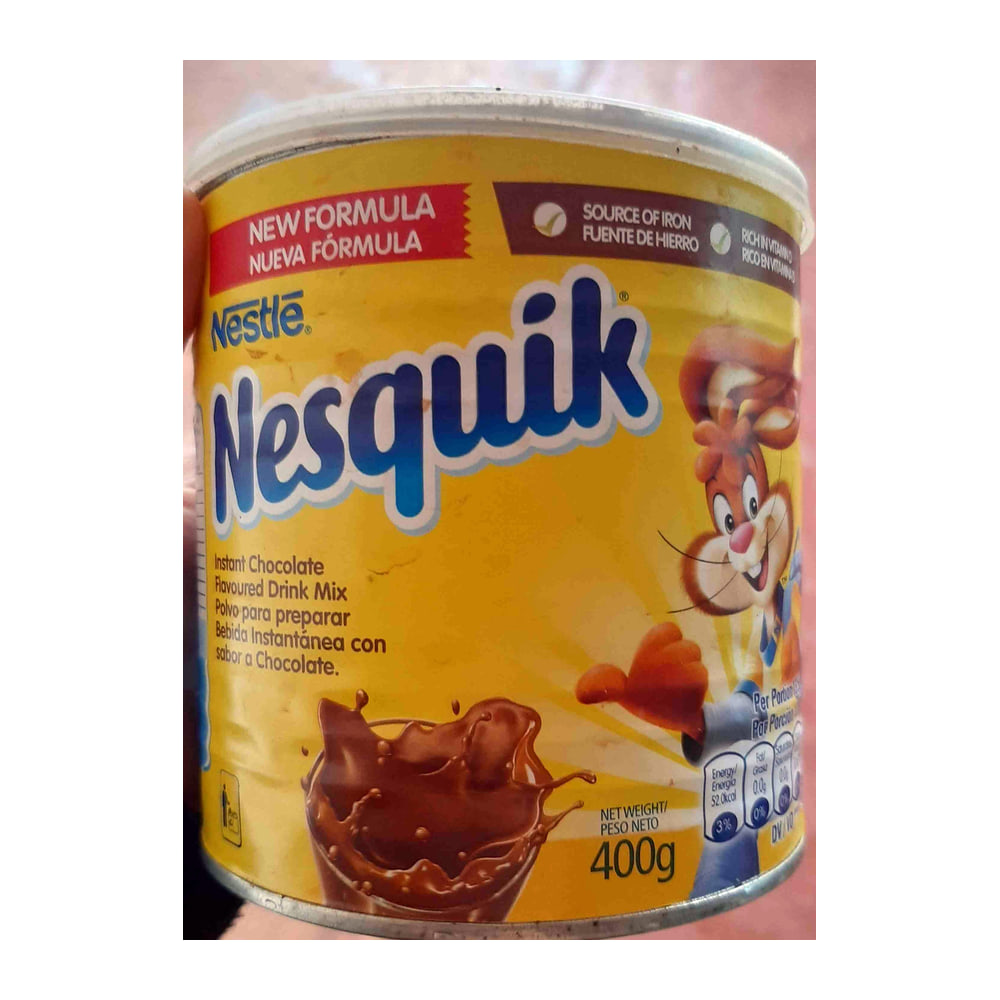
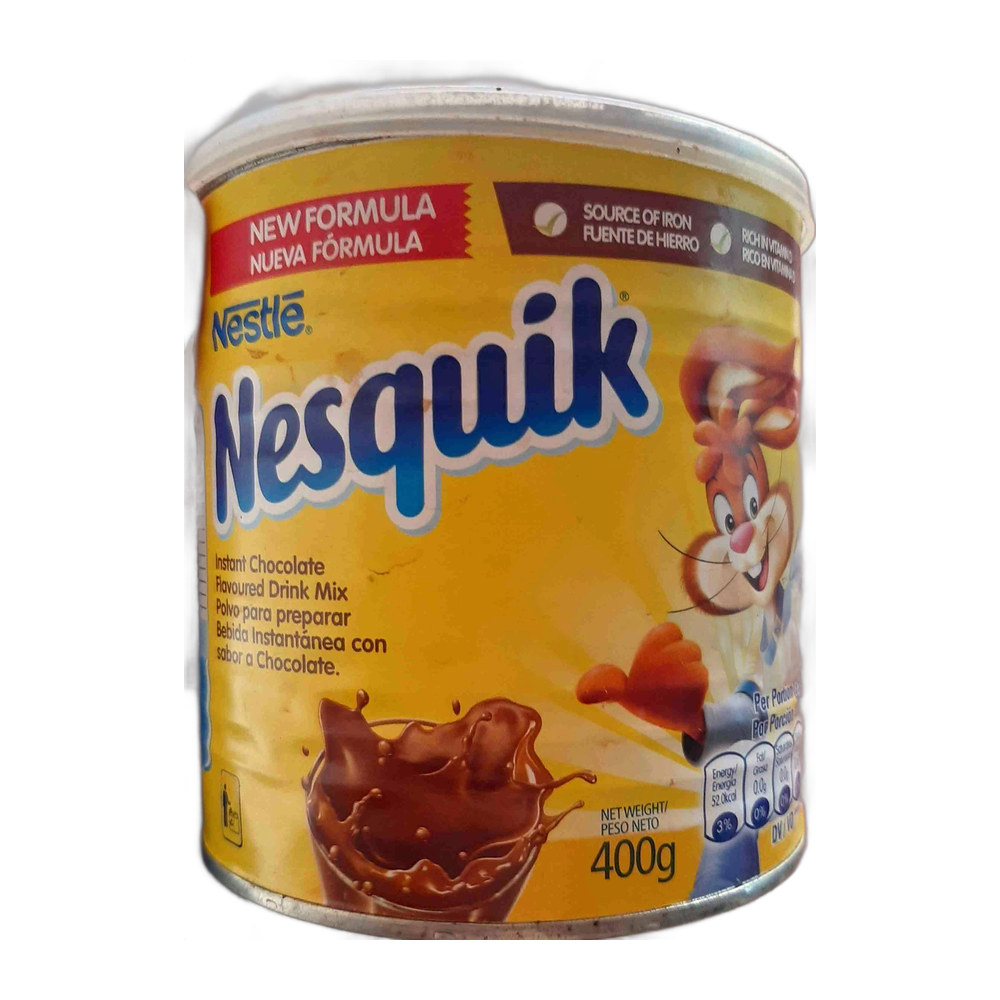
foto: recorte de fundo em 7 — e o registro de por que não nas outras 70
As sete que a régua de canto reprovava E que o recorte melhorou de
fato: Nesquik (lata sobre bancada amarelada), água Crystal 5 L
(garrafa na mesa da cozinha), Leão Fuze (caixa sobre mesa azul), Santa
Clara (pacote sobre superfície escura), Colgate (tira espremida de
1080×353), Nivea UV Face Shine Control (caixa em parede bege) e Dove
sabonete líquido. Conferidas uma a uma, lado a lado com a original.

Legalidade, que é o ponto que decide o método: as fotos vêm da Open
Food Facts / Open Beauty Facts sob CC-BY-SA, que permite uso comercial
E obra derivada mediante atribuição — e /attributions já atribui.
Recortar o fundo é derivada do que já temos licença de usar. É o
oposto de pegar pack shot do site do fabricante: aquilo é obra
protegida de quem a gente precisa como FORNECEDOR, e uma notificação
custa mais que qualquer foto.

O que NÃO foi feito, e por quê — isto é o achado que vale mais que as
sete fotos:

  1. u2net (o modelo padrão do rembg) destrói embalagem. Numa passada
     nas 77 ele apagou o Dr. Oetker inteiro, deixou só a tampa da
     garrafa de água e transformou o Bis em farelo. Ele segmenta
     "objeto saliente" em foto genérica; embalagem clara e superfície
     reflexiva o enganam.
  2. isnet-general-use acerta os casos difíceis (a lata amarela sobre
     amarelo, a garrafa TRANSPARENTE de 5 L) mas ainda destrói cerca de
     metade: Doritos vira fantasma, Suflair some, Nissin desfia. Uma
     passada em massa foi aplicada, medida na folha de contato e
[…]

diff --git a/scripts/recortar-fundo.py b/scripts/recortar-fundo.py
@@ -1,0 +1,192 @@
+#!/usr/bin/env python3
+"""
+Recorta o fundo das fotos do catálogo e devolve pack shot sobre branco.
+
+Por que isto existe: 42 dos 77 produtos com código de barras NÃO têm
+foto de estúdio em acervo aberto nenhum — medido duas vezes, por dois
+métodos. As fotos que existem são de voluntário: lata sobre bancada
+amarelada, caixa em cima de mesa azul, garrafa na mesa da cozinha. Numa
+grade de 24 cards isso lê como loja improvisada, e a foto é tudo o que
+a tripulação tem para decidir, porque ela não pode pegar o produto.
+
+Por que é legal fazer isso: as fotos vêm da Open Food Facts / Open
+Beauty Facts sob CC-BY-SA, que permite uso comercial E obra derivada,
+exigindo atribuição — que a página /attributions já dá. Recortar o
+fundo é obra derivada da foto que já temos licença de usar. É o oposto
+de pegar pack shot do site do fabricante, que é obra protegida de quem
+a gente precisa como fornecedor.
+
+A fonte é a imagem marcada como FRENTE (image_front_url), nunca "a
+maior original". A OFF guarda frente, verso, ingredientes e tabela
+nutricional no mesmo código de barras; escolher pela área trocou a
+água Crystal e o chá Leão pelo painel nutricional do verso. A frente é
+a única que o colaborador etiquetou como sendo o produto de frente.
+
+    pip install rembg onnxruntime pillow
+    python3 scripts/recortar-fundo.py             # relatório
+    python3 scripts/recortar-fundo.py --gravar    # aplica
+"""
+
+import io
+import json
+import os
+import sys
+import time
+import urllib.request
+
+from PIL import Image
+from rembg import new_session, remove
+
+DESTINO = "public/produtos"
+CACHE = "/tmp/frentes"
+UA = "AtGangway/1.0 (help@atgangway.com; catalog product images)"
+GRAVAR = "--gravar" in sys.argv
+
+# O mesmo molde de lib/fotonormaliza.ts: 1000px de lado e 6% de folga.
+# Dois moldes diferentes para a mesma grade seria pior que fundo sujo.
+LADO = 1000
+FOLGA = 0.06
+
+
+def pega(url, chave, binario=True):
+    arq = os.path.join(CACHE, chave)
+    if os.path.exists(arq):
+        with open(arq, "rb") as f:
+            return f.read()
+    req = urllib.request.Request(url, headers={"User-Agent": UA})
+    for tentativa in range(3):
+        try:
+            with urllib.request.urlopen(req, timeout=40) as r:
+                b = r.read()
+            with open(arq, "wb") as f:
+                f.write(b)
+            time.sleep(0.25)
+            return b
+        except Exception as e:
+            if tentativa == 2:
+                return None
+            time.sleep(2 * (tentativa + 1))
+    return None
+
+
+def frente(ean):
+    """URL da foto de FRENTE, em resolução cheia."""
+    for host in ("world.openfoodfacts.org", "world.openbeautyfacts.org"):
+        b = pega(
+            f"https://{host}/api/v2/product/{ean}.json?fields=code,image_front_url",
+            f"{ean}.json",
+        )
+        if not b:
+            continue
+        try:
+            d = json.loads(b)
+        except Exception:
+            continue
+        if d.get("status") != 1:
+            continue
+        u = (d.get("product") or {}).get("image_front_url")
+        if u:
+            # .400.jpg é a versão de exibição; .full.jpg é a original.
+            return u.replace(".400.jpg", ".full.jpg")
+    return None
+
+
+def cantos_limpos(im):
+    """Os 4 cantos claros e parecidos = já é pack shot, não mexe."""
+    im = im.convert("RGB")
+    w, h = im.size
+    lado = max(12, int(min(w, h) * 0.1))
+    medias = []
+    for cx, cy in ((0, 0), (w - lado, 0), (0, h - lado), (w - lado, h - lado)):
+        recorte = im.crop((cx, cy, cx + lado, cy + lado))
+        px = list(recorte.getdata())
+        medias.append(sum(sum(p) / 3 for p in px) / len(px))
+    return min(medias) >= 240 and (max(medias) - min(medias)) < 12
+
+
+def molde(rgba):
+    """Produto recortado -> quadrado branco de 1000px com folga de 6%."""
+    caixa = rgba.getbbox()
+    if caixa:
+        rgba = rgba.crop(caixa)
+    miolo = int(LADO * (1 - FOLGA * 2))
+    escala = min(miolo / rgba.width, miolo / rgba.height)
+    novo = rgba.resize((max(1, int(rgba.width * escala)), max(1, int(rgba.height * escala))), Image.LANCZOS)
+    fundo = Image.new("RGB", (LADO, LADO), (255, 255, 255))
+    fundo.paste(novo, ((LADO - novo.width) // 2, (LADO - novo.height) // 2), novo)
+    return fundo
+
+
+os.makedirs(CACHE, exist_ok=True)
+
+# u2net (o padrão do rembg) NÃO serve para embalagem, e o estrago foi
+# medido: numa passada nas 77 fotos ele apagou o Dr. Oetker inteiro,
+# deixou só a tampa da garrafa de água, e transformou o Bis em farelo.
+# Ele é treinado para "objeto saliente" em foto genérica, e embalagem
+# clara e superfície reflexiva o confundem.
+#
+# isnet-general-use acerta os dois casos que quebravam o outro — a lata
+# amarela sobre bancada amarelada e a garrafa TRANSPARENTE de 5 L, que
+# é o caso mais difícil que existe (o fundo aparece através do produto).
+sessao = new_session("isnet-general-use")
+
+eans = sorted(
+    f[4:-4] for f in os.listdir(DESTINO) if f.startswith("EAN-") and f.endswith(".jpg")
+)
+
+recortadas, ja_boas, sem_frente, falhas = [], [], [], []
+
+for ean in eans:
+    atual_path = os.path.join(DESTINO, f"EAN-{ean}.jpg")
+    try:
+        atual = Image.open(atual_path)
+    except Exception:
+        continue
+
+    u = frente(ean)
+    if not u:
+        sem_frente.append(ean)
+        continue
+    bruto = pega(u, f"{ean}-front.bin")
+    if not bruto:
+        sem_frente.append(ean)
+        continue
+
+    try:
+        src = Image.open(io.BytesIO(bruto)).convert("RGBA")
+    except Exception as e:
+        falhas.append(f"{ean} {e}")
+        continue
+
+    # Já é pack shot de estúdio? Então recortar só arrisca comer borda
+    # de embalagem clara. Não mexe.
+    if cantos_limpos(src):
+        ja_boas.append(ean)
+        continue
+
+    try:
+        cortada = remove(src, session=sessao)
+        pronta = molde(cortada)
+    except Exception as e:
+        falhas.append(f"{ean} {e}")
+        continue
+
+    # Recorte que sobrou quase nada comeu o produto: descarta.
+    proporcao = (cortada.getbbox() or (0, 0, 0, 0))
+    area_util = (proporcao[2] - proporcao[0]) * (proporcao[3] - proporcao[1])
+    if area_util < 0.05 * src.width * src.height:
+        falhas.append(f"{ean} recorte comeu o produto ({area_util} px)")
+        continue
+
+    recortadas.append(ean)
+    if GRAVAR:
+        pronta.save(atual_path, "JPEG", quality=88, subsampling=0, progressive=True)
+
+print(
+    f"recortadas {len(recortadas)} | já eram pack shot {len(ja_boas)} | "
+    f"sem foto de frente {len(sem_frente)} | falhas {len(falhas)}"
+)
+for f in falhas:
+    print("  falha:", f)
+if not GRAVAR:
+    print("(relatório apenas — rode com --gravar para aplicar)")
